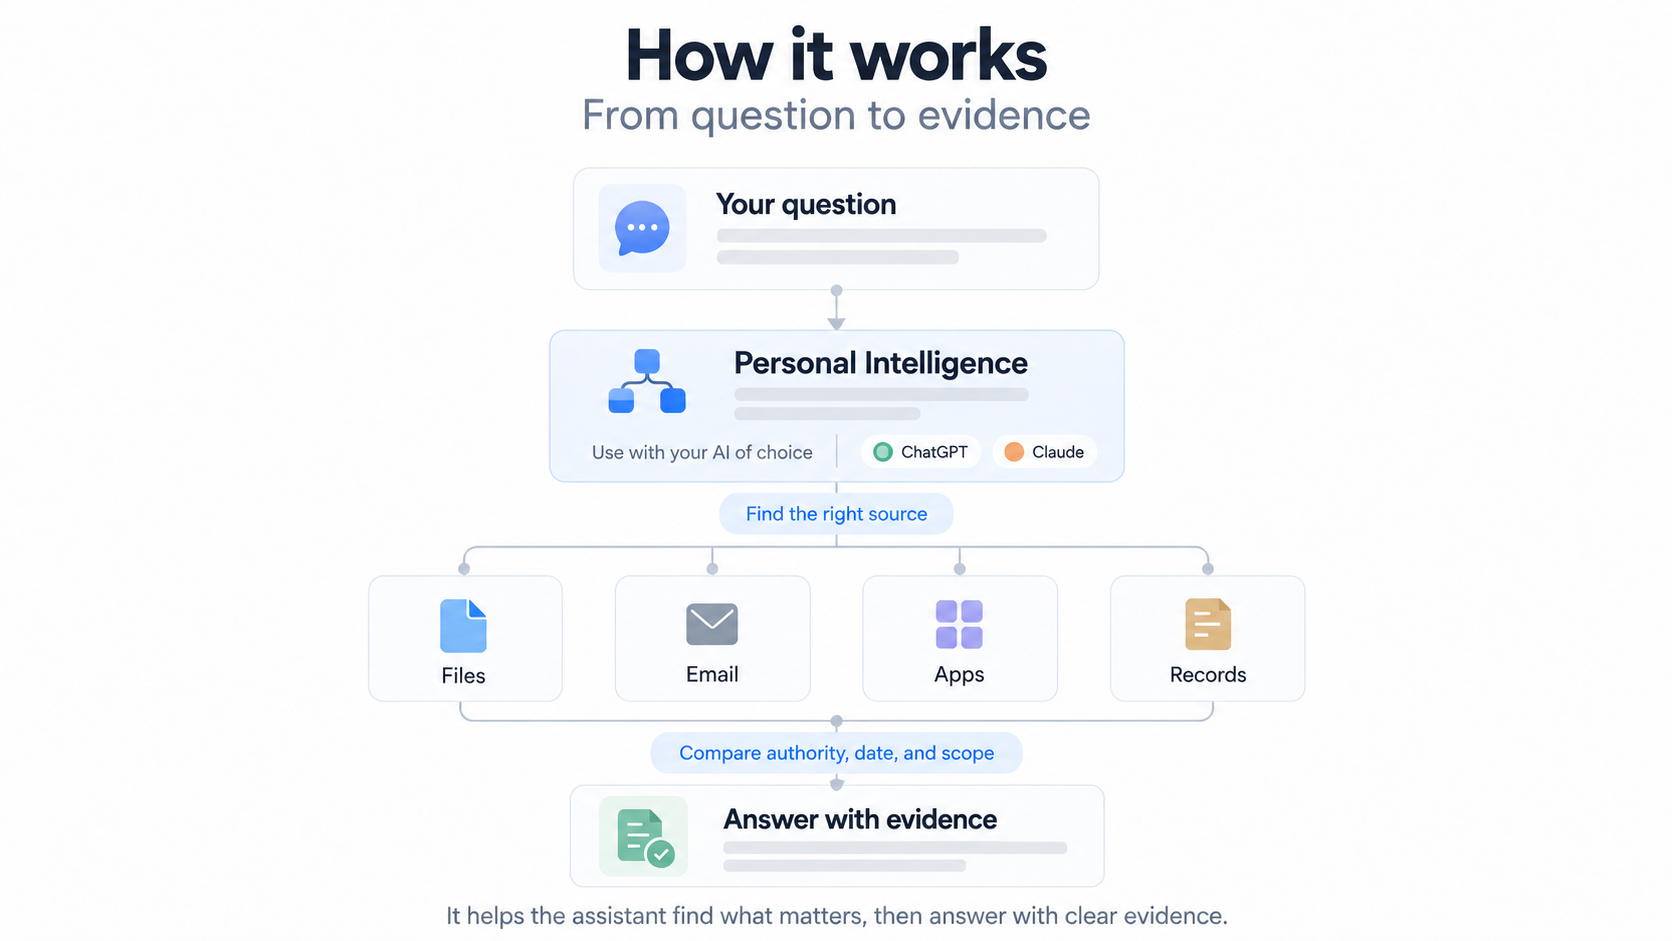
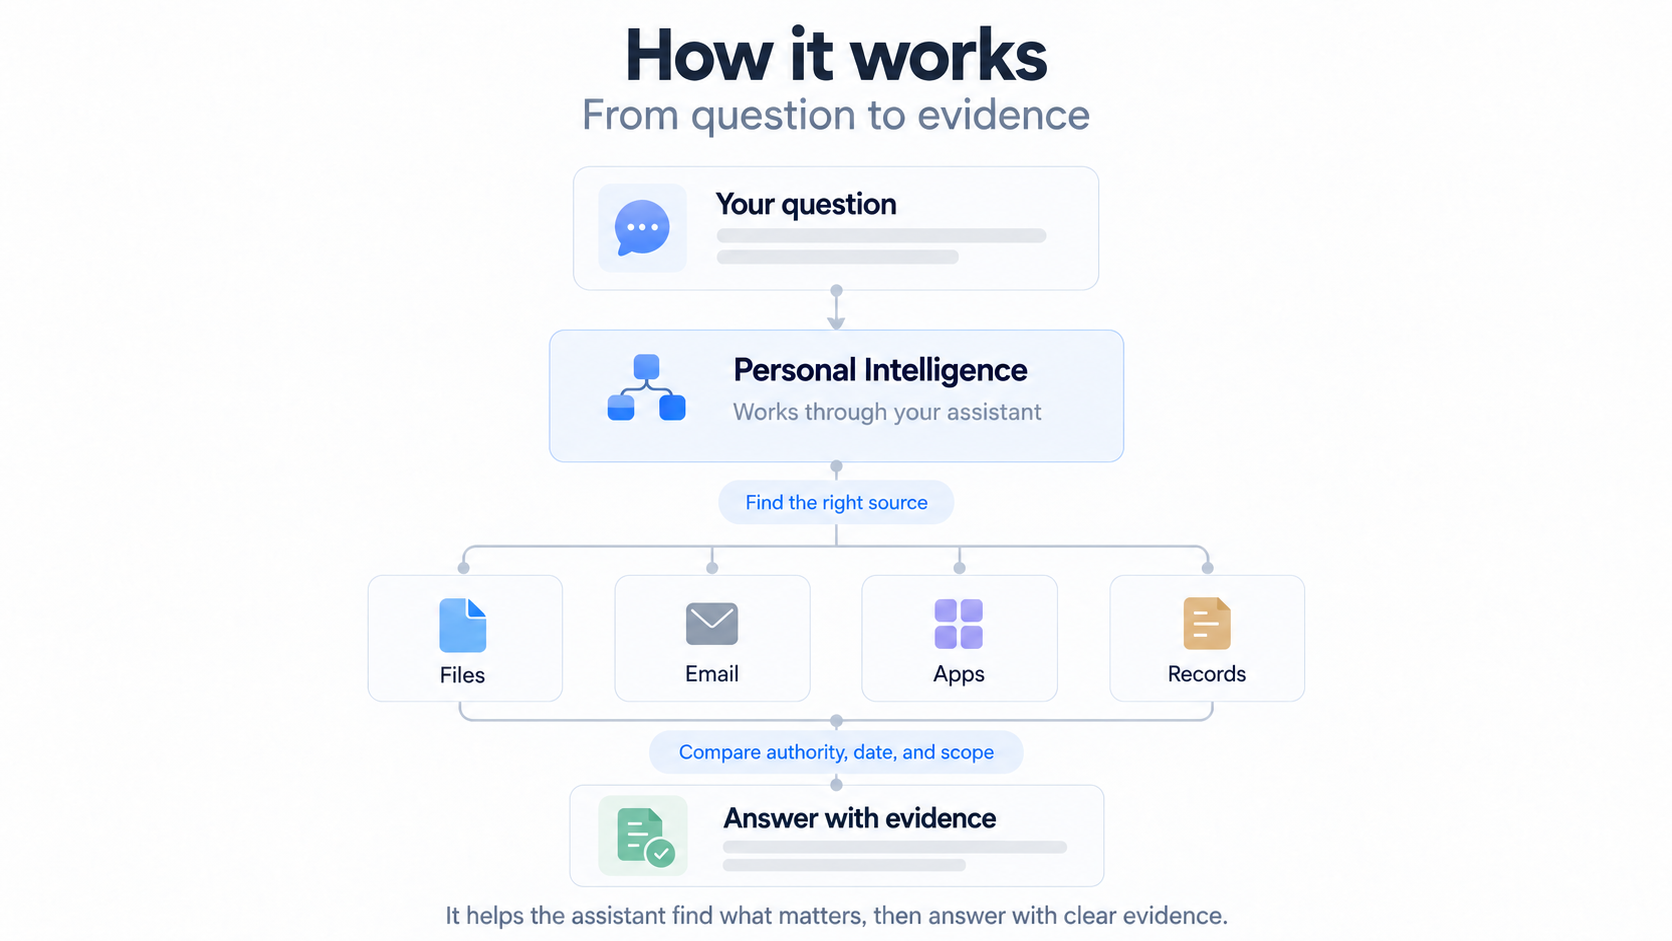
README: explain Personal Intelligence before installation

diff --git a/scripts/check_release.py b/scripts/check_release.py
@@ -11,6 +11,8 @@ README_IMAGES={
     'assets/readme/your-personal-information.png',
     'assets/readme/how-it-works.png',
     'assets/readme/privacy-boundary.png',
+    'assets/readme/what-can-i-ask.png',
+    'assets/readme/personal-intelligence-anywhere.png',
 }
 
 def check_png(data):

diff --git a/README.md b/README.md
@@ -14,6 +14,20 @@ The problem isn't storing more information.
 
 It's knowing **where to look, what to trust, and what actually answers the question.**
 
+### Ask questions about your own life.
+
+Ask in normal language about trips, email, documents, appointments, projects and explicitly scoped financial questions.
+
+Personal Intelligence helps your assistant find the relevant source before answering.
+
+![Examples of questions Personal Intelligence can help answer across trips, email, documents, calendar, projects and finance](assets/readme/what-can-i-ask.png)
+
+### From question to evidence.
+
+Personal Intelligence works through your assistant.
+
+It helps identify the source that actually answers the question, compare authority, date and scope, and return an answer grounded in evidence.
+
 ![How Personal Intelligence works: from a question to relevant sources and an evidence-based answer](assets/readme/how-it-works.png)
 
 ### Personal intelligence, not another database.
@@ -24,7 +38,21 @@ It maps your existing sources and teaches the assistant how to use them.
 
 ![Privacy boundary: personal files, integrations, source map and configuration stay private; skills and generic tooling can be shared](assets/readme/privacy-boundary.png)
 
-## What you install
+### Your information stays yours.
+
+Your files, integrations, source map and configuration remain private. The reusable skills and generic validation tooling can be shared without sharing your personal configuration or source collection.
+
+### Your personal intelligence, wherever you are.
+
+Personal Intelligence can also be used through a remote assistant workflow.
+
+Remote use has been demonstrated with ChatGPT in the maintainer's setup. The exact behavior depends on the client, configured integrations and permissions; equivalent remote behavior in other assistants has not been verified by this release.
+
+![Personal Intelligence remote example: configured sources at home and a question asked through an assistant from another device](assets/readme/personal-intelligence-anywhere.png)
+
+## How to install
+
+### What you install
 
 Personal Intelligence is a pair of skills and a small, offline validation toolkit. Your information stays in its existing locations; your source map and configuration stay outside the shared repository.
 
@@ -41,9 +69,7 @@ Use this for personal records, trips, household documentation, professional proj
 
 ## Install and start
 
-Version **0.1.0** is being prepared for its first release, planned for **2026-10-06**. The repository is private and the ZIPs are pre-release drafts; no GitHub release has been published.
-
-Use an authorized checkout or supplied archive and follow the [installation and onboarding guide](plugins/personal-intelligence/skills/setup-personal-intelligence/references/installation.md). Then start a chat in your intended workspace:
+Clone this repository or download its ZIP, then follow the [installation and onboarding guide](plugins/personal-intelligence/skills/setup-personal-intelligence/references/installation.md). Then start a chat in your intended workspace:
 
 > Use $setup-personal-intelligence to map my existing information. Keep configuration outside Git, preserve my working integrations, and identify the capabilities I want before proposing setup changes.
 
@@ -95,7 +121,7 @@ The examples are entirely invented. Tests cover a fresh private setup, requireme
 
 ## Keeping the rules useful
 
-The shared skill now requires an already authorized action to be executed and its saved identity and fields checked before success is reported. It retains corrections and approvals, checks uncertain outcomes before retries, and reports pending or failed operations accurately. See the [rule and invented regression cases](plugins/personal-intelligence/skills/personal-intelligence/references/authorized-actions.md); it grants no new access or permissions.
+The personal-intelligence skill requires an already authorized action to be executed and its saved identity and fields checked before success is reported. It retains corrections and approvals, checks uncertain outcomes before retries, and reports pending or failed operations accurately. See the [rule and invented regression cases](plugins/personal-intelligence/skills/personal-intelligence/references/authorized-actions.md); it grants no new access or permissions.
 
 The [rule-maintenance guide](plugins/personal-intelligence/skills/personal-intelligence/references/rule-maintenance.md) explains how a private correction becomes a generic improvement, how the release allowlist and manual review work, and how recipients update skills while retaining private configuration. There is no automatic anonymization or synchronization from personal instructions.
 
@@ -103,6 +129,6 @@ The [rule-maintenance guide](plugins/personal-intelligence/skills/personal-intel
 
 Share the plugin ZIP or this generic repository. The plugin ZIP contains the plugin and its two skills; the repository ZIP also contains tests, synthetic examples and the marketplace. Neither should contain a user's configuration, source bodies, path map, credentials or personal evaluation history.
 
-Publishing the repository does not publish to the OpenAI plugin directory. Directory publication uses its separate submission/review process: [official submission guide](https://developers.openai.com/plugins/deploy/submission). Recipients connect their own existing tools and build their own source map.
+Recipients connect their own existing tools and build their own source map.
 
 MIT licensed. Contributions should use synthetic fixtures and preserve explicit scope, source authority, required-input completeness and unavailable-source honesty.
